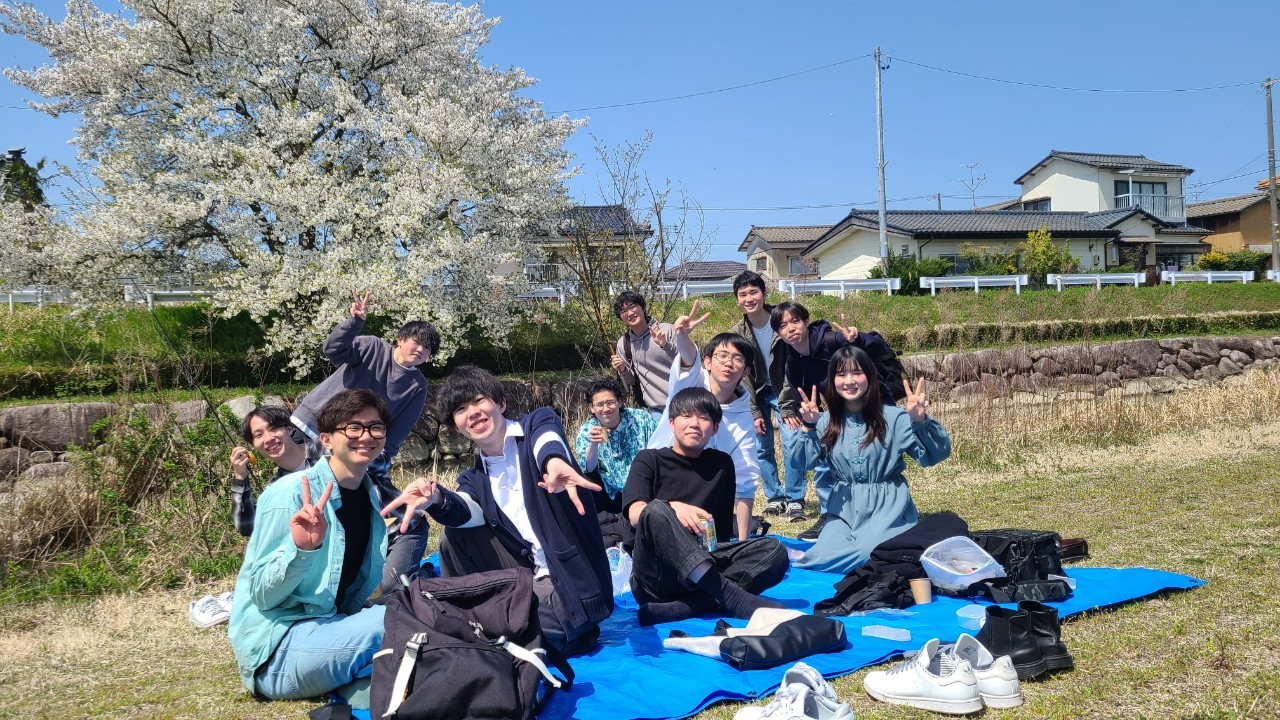
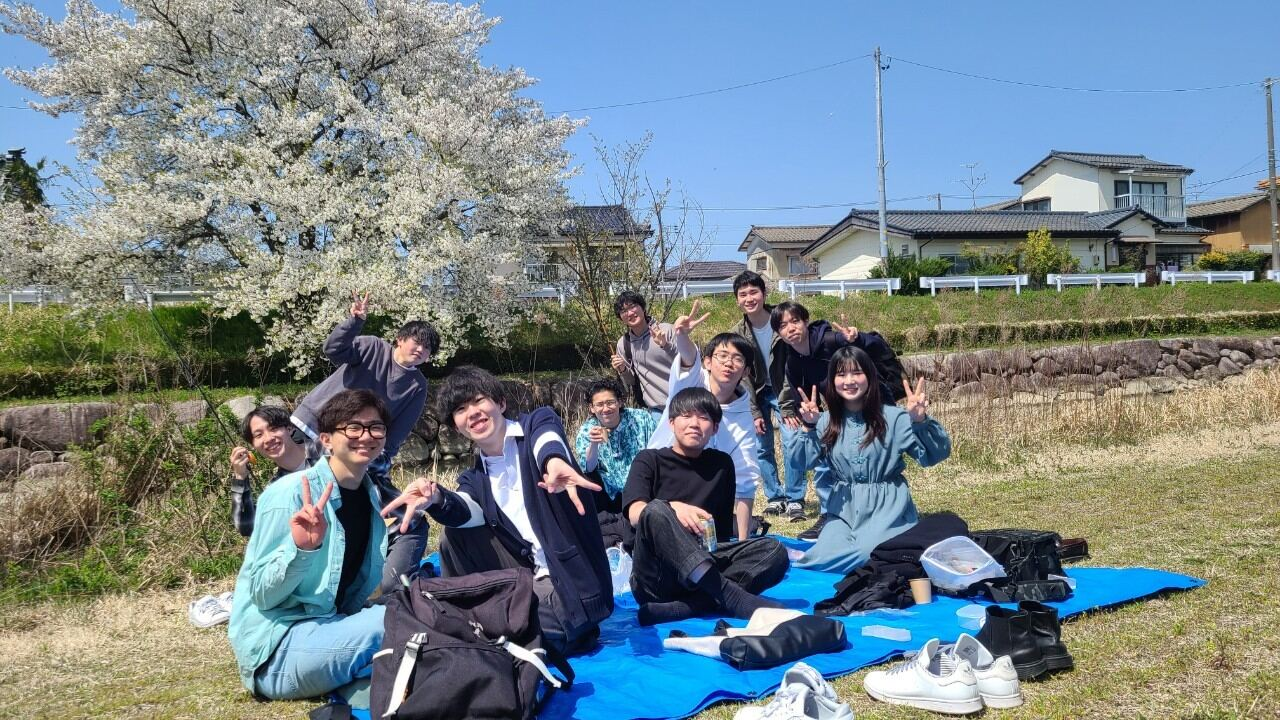
fix: ギャラリー・公開ページのレビュー指摘を修正 (#55)
- ギャラリーの「写真投稿について」を未実装機能の案内から「準備中」に変更
- join2.jpg の alt を「新大祭での集合写真」に変更（gallery / join）
- Tailwind 3 で生成されない hover:bg-white/8 を hover:bg-white/10 に置換
- ギャラリーのグリッド用サムネイル（images/gallery/thumbs/）を追加し、
  ライトボックスのみ元画像を表示。active1-3 / join2-3 の元画像を再圧縮
- サムネイルの存在と投稿案内の文言を検証するテストを追加

Claude-Session: https://claude.ai/code/session_01HBJR2qwmWFJFo8enCsotut

diff --git a/src/resources/views/gallery.blade.php b/src/resources/views/gallery.blade.php
@@ -17,13 +17,17 @@
         並べ替えるときは、スマホでは wide の直前の通常写真が偶数枚、PC では wide が 3 列目から始まらないことを保つこと。
       - ホバー表現はトップの「活動フォト」（photo-card / welcome-photo-frame / photo-overlay）と同じ。
       - クリック / Enter でライトボックス（resources/js/gallery-lightbox.js）。
-      - 説明文の本文は既存の文章。文言は一字一句変えないこと（構造・スタイルのみ変更可）。
+      - グリッドは軽量サムネイル（images/gallery/thumbs/<元ファイル名>）、ライトボックスは元画像を表示する。
+        写真を追加したらサムネイルも作ること（ImageMagick。wide の写真は 600x600^ を 1200x600^ にする）:
+          convert <元画像> -auto-orient -resize '600x600^' -strip -sampling-factor 4:2:0 -interlace JPEG -quality 75 public/images/gallery/thumbs/<元ファイル名>
+      - 「活動の思い出」の本文は既存の文章。文言は一字一句変えないこと（構造・スタイルのみ変更可）。
+      - 「写真投稿について」は投稿機能が未実装のため「準備中」の案内にしている。機能公開時に文言を戻すこと。
     --}}
     @php
         $h2Class = 'text-2xl md:text-3xl font-bold text-white leading-snug break-keep';
         $bodyClass = 'max-w-prose text-base leading-relaxed welcome-text-muted [word-break:auto-phrase]';
 
-        // file: public/images/ からの相対パス / alt / position: サムネイルの object-position / wide: 2 列幅
+        // file: public/images/ からの相対パス（元画像。サムネイルは gallery/thumbs/ に同名） / alt / position: サムネイルの object-position / wide: 2 列幅
         $photos = [
             ['file' => 'gallery/group-beach.jpg', 'alt' => '砂浜での集合写真', 'position' => 'object-[center_60%]', 'wide' => true],
             ['file' => 'gallery/catch-01.jpg', 'alt' => '木陰の川辺で釣果を持つ部員', 'position' => 'object-[center_60%]'],
@@ -40,7 +44,7 @@
             ['file' => 'gallery/sashimi.jpg', 'alt' => '釣った魚で作った刺身と料理', 'position' => 'object-center'],
             ['file' => 'gallery/beach-bonfire.jpg', 'alt' => '夜の浜辺の焚き火', 'position' => 'object-[center_30%]'],
             ['file' => 'gallery/catch-06.jpg', 'alt' => '港の岸壁で釣果を持つ部員', 'position' => 'object-[center_30%]'],
-            ['file' => 'join2.jpg', 'alt' => '入会案内画像2', 'position' => 'object-center'],
+            ['file' => 'join2.jpg', 'alt' => '新大祭での集合写真', 'position' => 'object-center'],
             ['file' => 'gallery/catch-07.jpg', 'alt' => '計測ボードの上の釣果', 'position' => 'object-center'],
             ['file' => 'gallery/dinner-party.jpg', 'alt' => '和室での食事会', 'position' => 'object-center'],
             ['file' => 'gallery/snow-trout.jpg', 'alt' => '雪の中での釣果', 'position' => 'object-[center_65%]'],
@@ -80,7 +84,7 @@
                             @click="show({{ $i }})"
                             aria-haspopup="dialog"
                             class="group photo-card welcome-photo-frame block w-full {{ ($photo['wide'] ?? false) ? 'aspect-[2/1] md:aspect-auto md:h-full' : 'aspect-square' }} rounded-xl bg-white/5 cursor-zoom-in focus:outline-none focus-visible:ring-2 focus-visible:ring-sky-400 focus-visible:ring-offset-2 focus-visible:ring-offset-gray-900">
-                            <img src="{{ asset('images/'.$photo['file']) }}"
+                            <img src="{{ asset('images/gallery/thumbs/'.basename($photo['file'])) }}"
                                 alt="{{ $photo['alt'] }}"
                                 class="{{ $photo['position'] }}"
                                 loading="lazy"
@@ -162,8 +166,8 @@
             <h2 id="gallery-posting" class="{{ $h2Class }}">写真投稿について</h2>
             <div class="mt-3 mb-5 h-px w-12 bg-sky-500/50" aria-hidden="true"></div>
             <p class="{{ $bodyClass }}">
-                メンバーの皆さんは、活動中に撮影した写真をサークルのギャラリーに投稿できます。
-                ログイン後、マイページから簡単に投稿可能です。素敵な瞬間をみんなでシェアしましょう！
+                メンバーが活動中に撮影した写真をギャラリーに投稿できる機能を、現在準備中です。
+                公開まで今しばらくお待ちください！
             </p>
         </section>
     </div>

diff --git a/src/resources/views/welcome/_about.blade.php b/src/resources/views/welcome/_about.blade.php
@@ -28,7 +28,7 @@
         <div class="grid grid-cols-1 md:grid-cols-3 gap-6 lg:gap-8">
 
             {{-- Card 1: 目指すもの --}}
-            <div class="reveal reveal-delay-1 relative bg-white/5 border border-white/10 rounded-2xl p-8 overflow-hidden hover:bg-white/8 transition-colors">
+            <div class="reveal reveal-delay-1 relative bg-white/5 border border-white/10 rounded-2xl p-8 overflow-hidden hover:bg-white/10 transition-colors">
                 <div class="about-card-number" aria-hidden="true">01</div>
                 <div class="about-card-body">
                     <div class="w-10 h-10 rounded-xl bg-sky-500/20 flex items-center justify-center mb-5">
@@ -43,7 +43,7 @@
             </div>
 
             {{-- Card 2: 雰囲気 --}}
-            <div class="reveal reveal-delay-2 relative bg-white/5 border border-white/10 rounded-2xl p-8 overflow-hidden hover:bg-white/8 transition-colors">
+            <div class="reveal reveal-delay-2 relative bg-white/5 border border-white/10 rounded-2xl p-8 overflow-hidden hover:bg-white/10 transition-colors">
                 <div class="about-card-number" aria-hidden="true">02</div>
                 <div class="about-card-body">
                     <div class="w-10 h-10 rounded-xl bg-sky-500/20 flex items-center justify-center mb-5">
@@ -57,7 +57,7 @@
             </div>
 
             {{-- Card 3: 大会実績 --}}
-            <div class="reveal reveal-delay-3 relative bg-white/5 border border-white/10 rounded-2xl p-8 overflow-hidden hover:bg-white/8 transition-colors">
+            <div class="reveal reveal-delay-3 relative bg-white/5 border border-white/10 rounded-2xl p-8 overflow-hidden hover:bg-white/10 transition-colors">
                 <div class="about-card-number" aria-hidden="true">03</div>
                 <div class="about-card-body">
                     <div class="w-10 h-10 rounded-xl bg-sky-500/20 flex items-center justify-center mb-5">
@@ -93,7 +93,7 @@
         {{-- 詳細ページへの導線（_activities の「ギャラリーをもっと見る」と同スタイル） --}}
         <div class="text-center mt-10 reveal">
             <a href="{{ route('about') }}"
-               class="inline-flex items-center gap-2 px-8 py-3 rounded-full text-sm font-medium text-white/80 hover:text-white border border-white/25 hover:border-white/50 hover:bg-white/8 transition-colors">
+               class="inline-flex items-center gap-2 px-8 py-3 rounded-full text-sm font-medium text-white/80 hover:text-white border border-white/25 hover:border-white/50 hover:bg-white/10 transition-colors">
                 サークル紹介を詳しく見る
                 <svg class="w-4 h-4" fill="none" stroke="currentColor" viewBox="0 0 24 24" aria-hidden="true">
                     <path stroke-linecap="round" stroke-linejoin="round" stroke-width="2" d="M17 8l4 4m0 0l-4 4m4-4H3"/>

diff --git a/src/tests/Feature/GalleryPageTest.php b/src/tests/Feature/GalleryPageTest.php
@@ -1,0 +1,28 @@
+<?php
+
+// ========================
+// ギャラリーページ（Issue #46）
+// グリッドは軽量サムネイル（images/gallery/thumbs/）、ライトボックスは元画像を使う
+// ========================
+
+test('ギャラリーのサムネイルがすべて public に存在する', function () {
+    $html = $this->withoutVite()
+        ->get(route('gallery'))
+        ->assertOk()
+        ->getContent();
+
+    preg_match_all('#src="[^"]*?/images/(gallery/thumbs/[^"]+)"#', $html, $matches);
+
+    expect($matches[1])->toHaveCount(25);
+    foreach ($matches[1] as $path) {
+        expect(file_exists(public_path('images/'.$path)))->toBeTrue("サムネイルがありません: {$path}");
+    }
+});
+
+test('ギャラリーは未実装の写真投稿機能を利用可能と案内しない', function () {
+    $this->withoutVite()
+        ->get(route('gallery'))
+        ->assertOk()
+        ->assertSee('準備中')
+        ->assertDontSee('マイページから簡単に投稿可能です');
+});

diff --git a/src/resources/views/about.blade.php b/src/resources/views/about.blade.php
@@ -78,7 +78,7 @@
         {{-- 入部案内への導線（トップ「ギャラリーをもっと見る」と同系統） --}}
         <div class="text-center mt-16 md:mt-20">
             <a href="{{ route('join') }}"
-               class="inline-flex items-center gap-2 px-8 py-3 rounded-full text-sm font-medium text-white/80 hover:text-white border border-white/25 hover:border-white/50 hover:bg-white/8 transition-colors">
+               class="inline-flex items-center gap-2 px-8 py-3 rounded-full text-sm font-medium text-white/80 hover:text-white border border-white/25 hover:border-white/50 hover:bg-white/10 transition-colors">
                 入部案内を見る
                 <svg class="w-4 h-4" fill="none" stroke="currentColor" viewBox="0 0 24 24" aria-hidden="true">
                     <path stroke-linecap="round" stroke-linejoin="round" stroke-width="2" d="M17 8l4 4m0 0l-4 4m4-4H3"/>

diff --git a/src/resources/views/welcome/_activities.blade.php b/src/resources/views/welcome/_activities.blade.php
@@ -35,7 +35,7 @@
 
         <div class="text-center mt-10 reveal">
             <a href="{{ route('gallery') }}"
-               class="inline-flex items-center gap-2 px-8 py-3 rounded-full text-sm font-medium text-white/80 hover:text-white border border-white/25 hover:border-white/50 hover:bg-white/8 transition-colors">
+               class="inline-flex items-center gap-2 px-8 py-3 rounded-full text-sm font-medium text-white/80 hover:text-white border border-white/25 hover:border-white/50 hover:bg-white/10 transition-colors">
                 ギャラリーをもっと見る
                 <svg class="w-4 h-4" fill="none" stroke="currentColor" viewBox="0 0 24 24">
                     <path stroke-linecap="round" stroke-linejoin="round" stroke-width="2" d="M17 8l4 4m0 0l-4 4m4-4H3"/>

diff --git a/src/resources/views/join.blade.php b/src/resources/views/join.blade.php
@@ -39,7 +39,7 @@
 
             <!-- 左下：画像2 -->
             <div class="bg-white/5 border border-white/10 rounded-2xl p-3 flex items-center justify-center">
-                <img src="{{ asset('images/join2.jpg') }}" alt="入会案内画像2" class="w-full h-64 object-cover rounded-xl">
+                <img src="{{ asset('images/join2.jpg') }}" alt="新大祭での集合写真" class="w-full h-64 object-cover rounded-xl">
             </div>
 
             <!-- 右下：サークル入会費について -->
